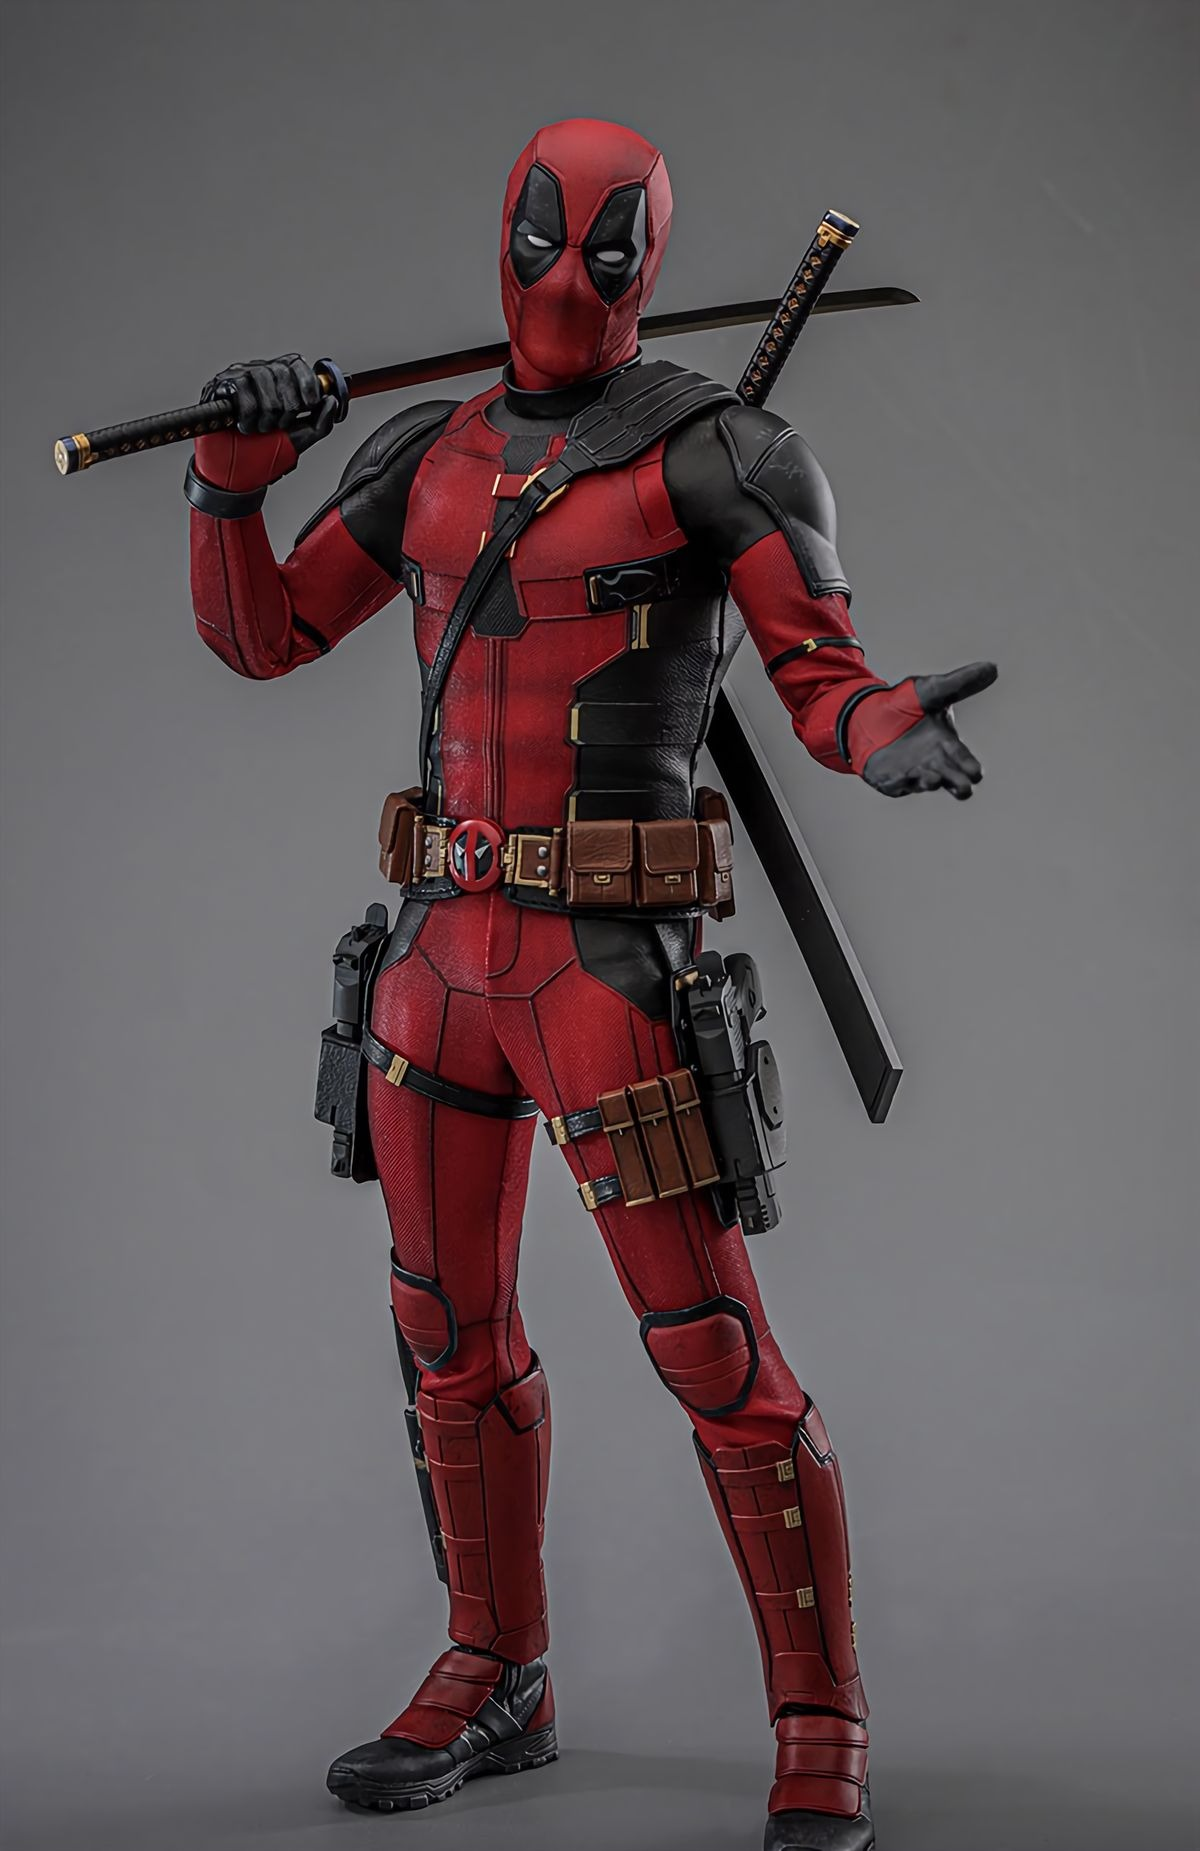
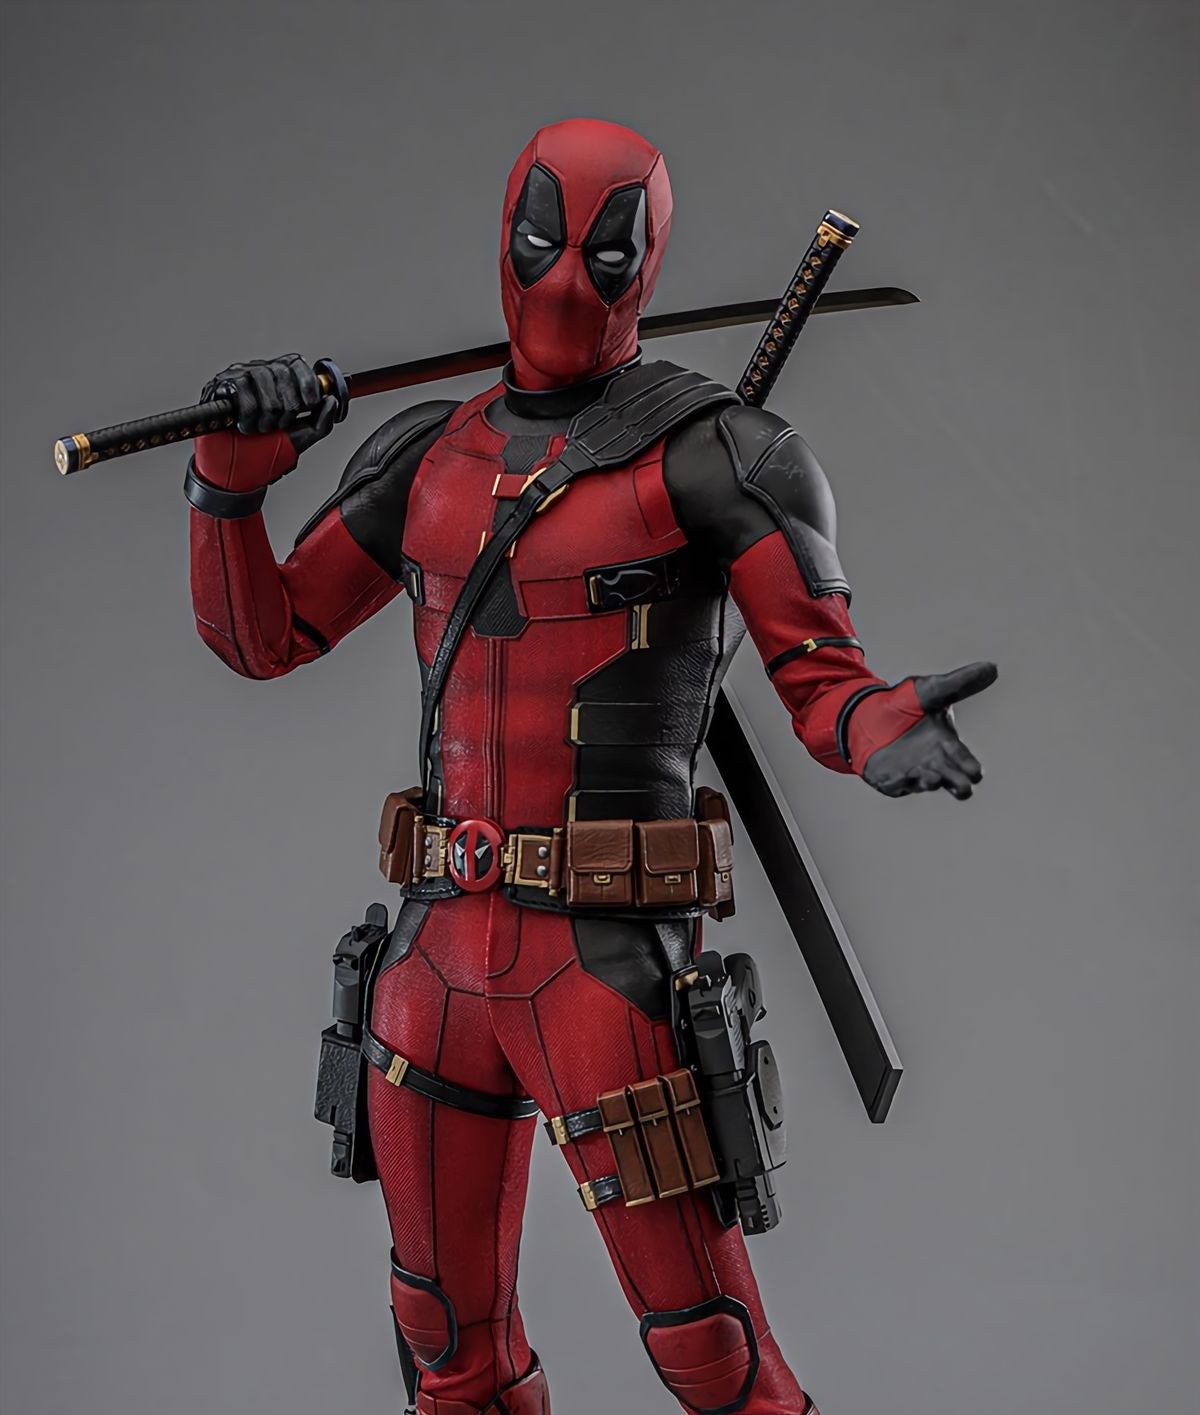
Add files via upload

diff --git a/script.js b/script.js
@@ -762,9 +762,6 @@ function closeCart() {
 
 
 
-// ==========================================
-// SCROLL
-// ==========================================
 
 function scrollToProducts() {
 
@@ -782,9 +779,7 @@ function scrollToProducts() {
 
 
 
-// ==========================================
-// SEARCH BUTTON
-// ==========================================
+
 
 function focusSearch() {
 
@@ -808,9 +803,6 @@ function focusSearch() {
 
 
 
-// ==========================================
-// CHECKOUT
-// ==========================================
 
 function checkout() {
 
@@ -866,11 +858,6 @@ function checkout() {
 
 }
 
-
-
-// ==========================================
-// FORMAT PRICE
-// ==========================================
 
 function formatPrice(price) {
 

diff --git a/index.html b/index.html
@@ -161,8 +161,8 @@
             <div class="hero-card">
 
                 <img
-                    src="deadpool.jpeg"
-                    alt="Featured Deadpool collectible"
+                    src="marvel.jpeg"
+                    alt="MARVEL collectible"
                 >
 
 
@@ -173,7 +173,7 @@
                     </span>
 
                     <strong>
-                        DEADPOOL
+                        MARVEL
                     </strong>
 
                 </div>

diff --git a/style.css b/style.css
@@ -441,6 +441,7 @@ nav a:hover {
             .55
 
         );
+        object-fit: fill;
 
     transform: rotate(4deg);
 
@@ -453,10 +454,9 @@ nav a:hover {
 
     height: 100%;
 
-    object-fit: cover;
+    object-fit: contain;
 
-    object-position: center;
-
+    
 }
 
 
